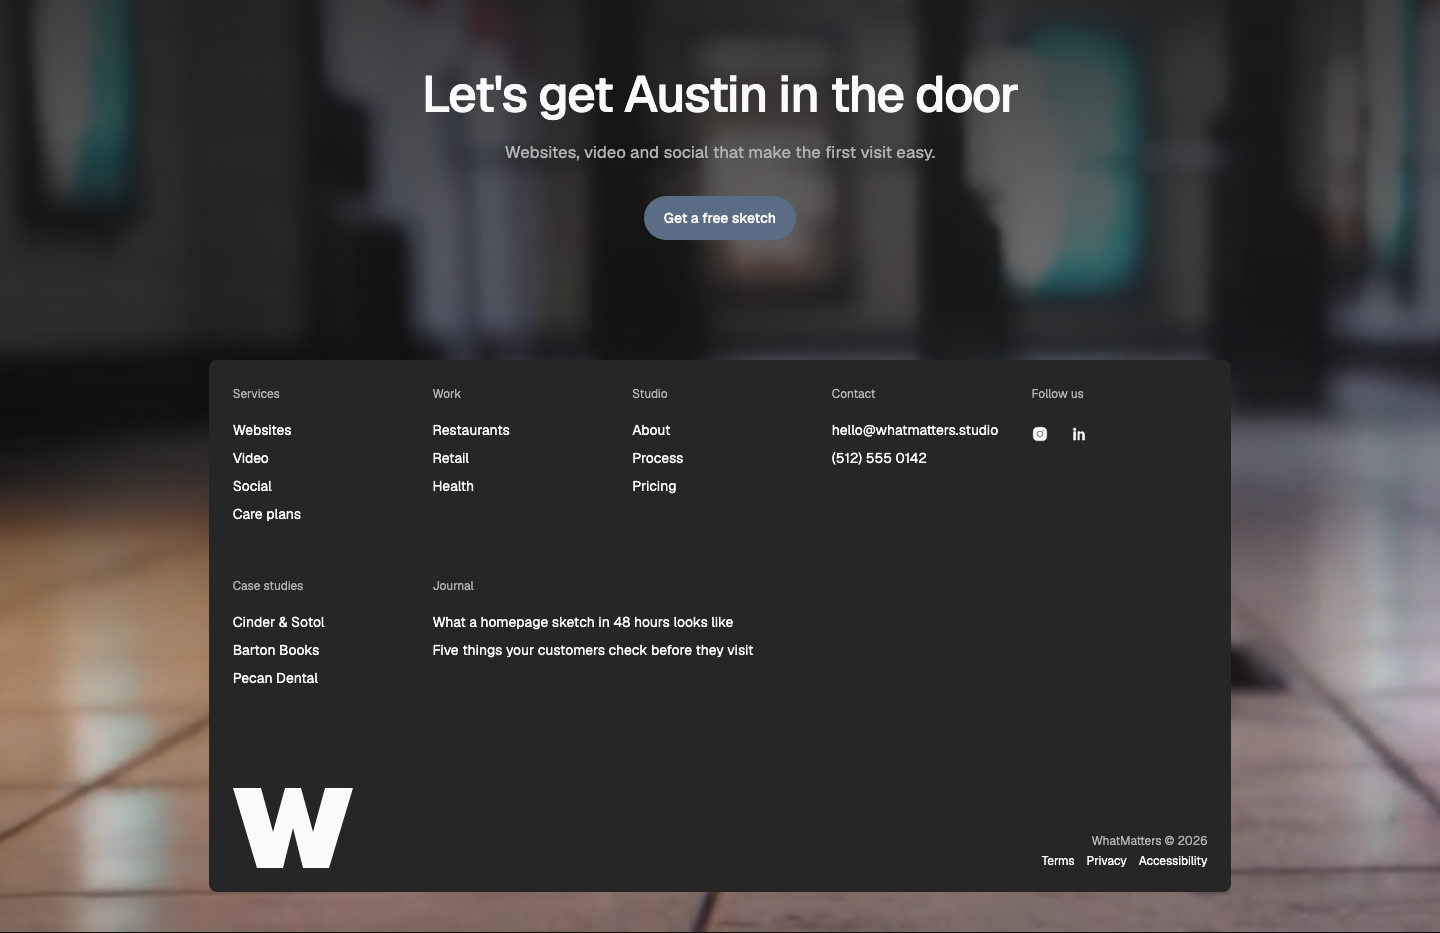
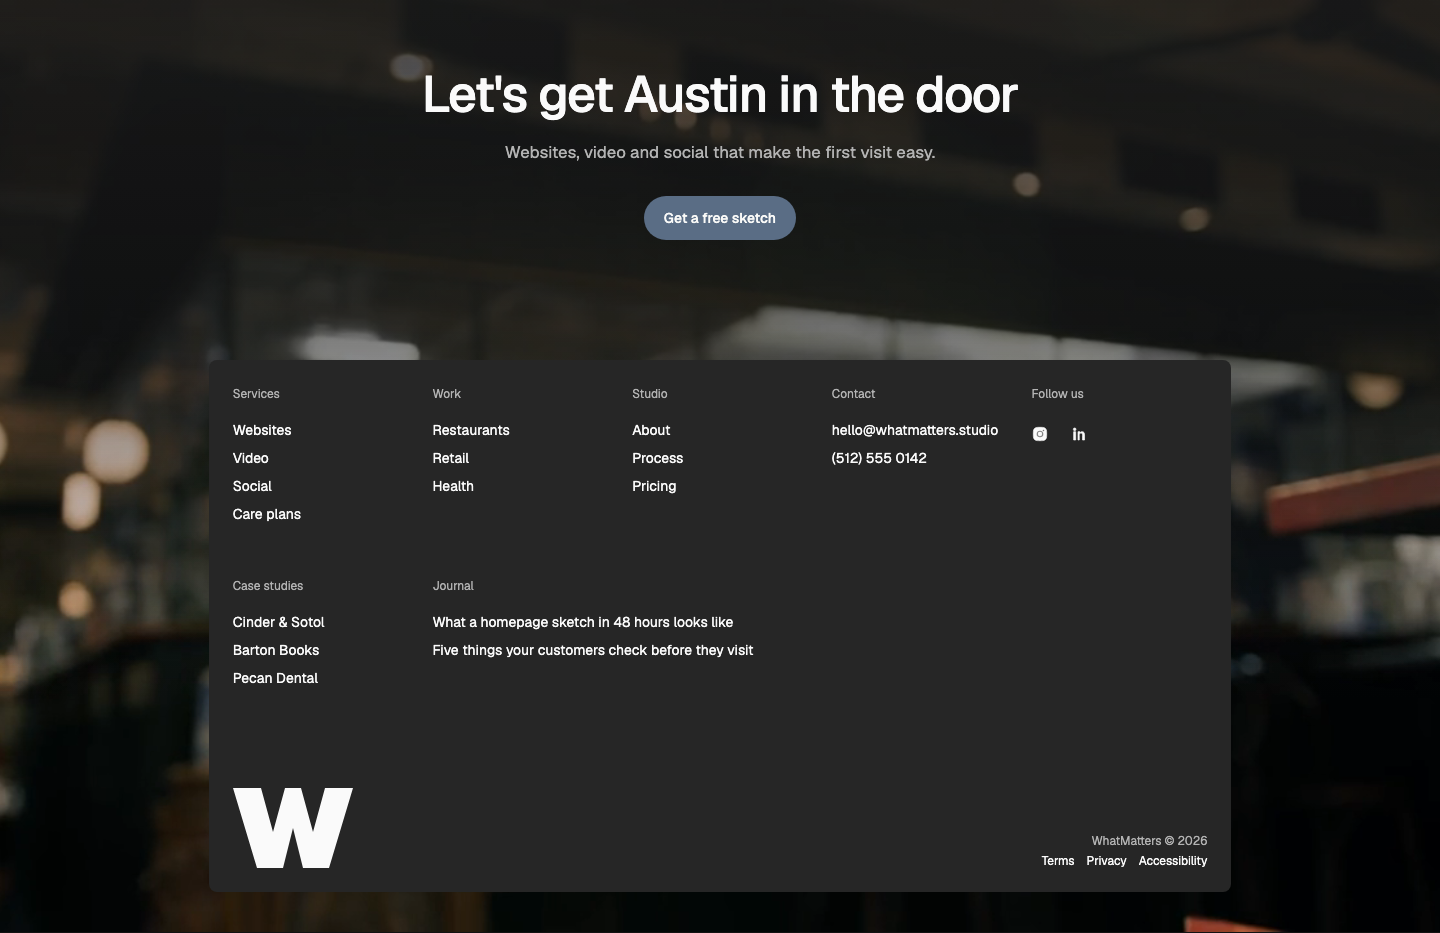
Footer — Over Image: Randy's new pick, Envato "Blurred Restaurant Interior With Bartender in Background"; screenshots

diff --git a/patterns/footer/over-image/example.tsx b/patterns/footer/over-image/example.tsx
@@ -1,6 +1,6 @@
 /**
- * Example content for Footer — Over Image. The video is Envato's "Blur view of train platform"
- * (leungchopan, Randy's pick, 2026-10-27). Until the licensed file is in, it plays from
+ * Example content for Footer — Over Image. The video is Envato's "Blurred Restaurant Interior With
+ * Bartender in Background" (guyswhoshoot, Randy's pick, 2026-10-27). Until the licensed file is in, it plays from
  * gallery/public/local/ (not committed). Replace the copy, links, logo and video with the client's own.
  */
 import { Button, IconButton } from "@thewhatmatters/wmds";

diff --git a/patterns/footer/over-image/README.md b/patterns/footer/over-image/README.md
@@ -3,7 +3,7 @@
 status: draft
 
 After Unify's footer (Inspiration board; Randy's reference, 2026-10-27). Nothing copied but the idea.
-**File:** `FooterOverImage.tsx` (copy it). **Example:** `example.tsx`, with Envato's "Blur view of train platform" (leungchopan, Randy's pick) behind it.
+**File:** `FooterOverImage.tsx` (copy it). **Example:** `example.tsx`, with Envato's "Blurred Restaurant Interior With Bartender in Background" (guyswhoshoot, Randy's pick) behind it.
 
 A closing call to action set on a full-width picture or looping video, with the footer as a contained WMDS Card floating over the picture: link columns, a "Follow us" column, an optional second row (case studies, latest posts), a big brand mark at the bottom left and the legal line at the bottom right. The picture shows around the card and runs to the page's bottom edge.
 
@@ -69,4 +69,4 @@ Full width. Section padding 48 / 64 at the top (phone / tablet and up); headline
 ## WMDS
 
 - Built on **@thewhatmatters/wmds 0.4.28**: `Card`, `TextLink`, `IconButton`, `Button`. No gap.
-- Example video: Envato "Blur view of train platform" (Randy's pick, 2026-10-27). Until the licensed file is downloaded, the gallery plays Envato's watermarked preview from `gallery/public/local/` (not committed, not for publishing). On the published gallery the picture stays empty until the licensed file is added at `gallery/public/examples/footer-over-image/` and the example points to it.
+- Example video: Envato "Blurred Restaurant Interior With Bartender in Background" (Randy's pick, 2026-10-27; https://app.envato.com/stock-video/24519876-74bd-432c-a8ad-01d142e906b0). Until the licensed file is downloaded, the gallery plays Envato's watermarked preview from `gallery/public/local/` (not committed, not for publishing). On the published gallery the picture stays empty until the licensed file is added at `gallery/public/examples/footer-over-image/` and the example points to it.
